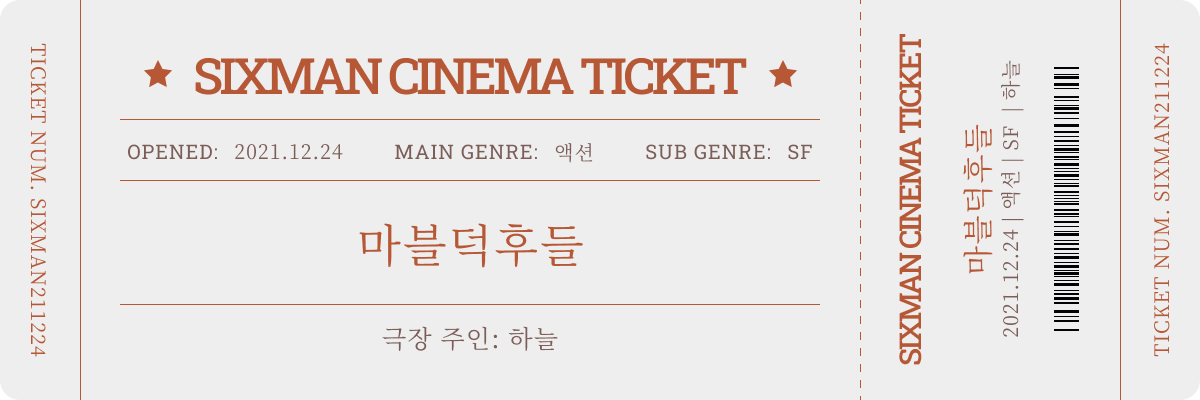
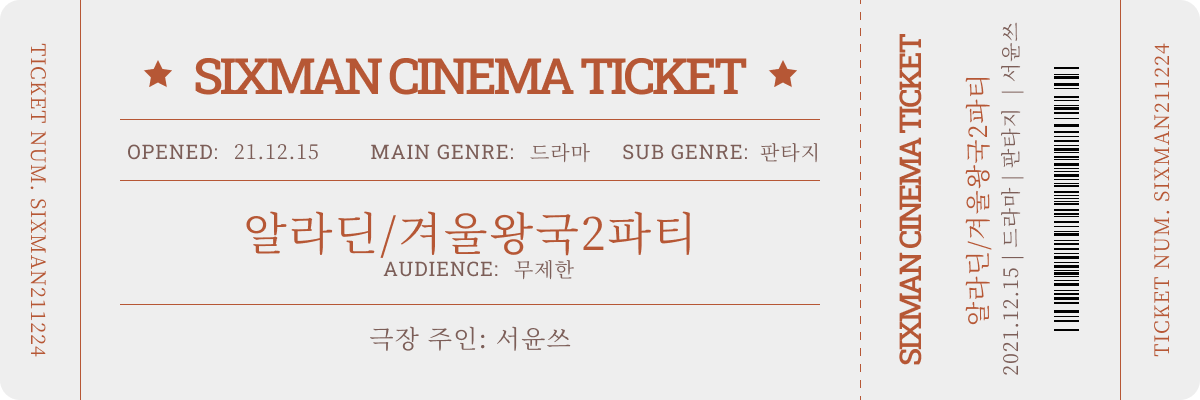
:tada: feat: 소극장 상세 페이지 완성 - detail 남음(링크, 장르 검색)

diff --git a/frontend/src/pages/Theater.jsx b/frontend/src/pages/Theater.jsx
@@ -1,38 +1,43 @@
 import styled from "styled-components";
 import { theme } from "styled-tools";
-import { Button, NoticeSection } from "../components";
-import { ticket01 } from "../assets/images";
-import { useNavigate } from "react-router-dom";
+import { Button, Notice } from "../components";
+import { useLocation, useNavigate } from "react-router-dom";
+import { ticket01, ticket02, ticket03, ticket04, ticket05, ticket06, ticket07 } from "../assets/images";
 
 export default function Theater() {
-  const navigate = useNavigate();
+  const TICKET_LIST = [
+    { id: 1, ticket: ticket01 },
+    { id: 2, ticket: ticket02 },
+    { id: 3, ticket: ticket03 },
+    { id: 4, ticket: ticket04 },
+    { id: 5, ticket: ticket05 },
+    { id: 6, ticket: ticket06 },
+    { id: 7, ticket: ticket07 },
+  ];
 
-  const theaterInfo = {
-    owner: "하늘",
-    linkPath: "https://velog.io/@soryeongk/ReactRouterDomV6",
-    intro: {
-      title: "마블 덕후들 소개",
-      context:
-        "마블을 사랑하는 사람들의 모임입니다.\n주 모임 시간은 주말과 평일 20~24시입니다.\n지역은 서울/경기/울산 등 다양합니다.",
-    },
-    notice: {
-      title: "극장 주인 하늘님의 공지사항",
-      context:
-        "마블 덕후들 환영합니다~\n이번 주 9일 17시~19시 비대면 번개 아이언맨3 정주행 모임 있습니다!자세한 내용은 위의 티켓을 클릭하여 오픈카톡링크로 들어와주세요",
-    },
-  };
+  const navigate = useNavigate();
+  const { state } = useLocation();
+  const theaterInfo = state.theaterInfo;
+  const theaterId = theaterInfo.id;
+  const ticket = TICKET_LIST[theaterId - 1].ticket;
+  const LINK_PATH = "https://kdt-gitlab.elice.io/003-part3-ottservice/team6/project-template";
+
+  const { title, notice } = theaterInfo;
 
   return (
     <Wrapper>
       <span>
-        식스맨 비대면 소극장 <Title>마블 덕후들</Title>입니다.
+        식스맨 비대면 소극장 <Title>{title}</Title>입니다.
         <br />
         아래 티켓을 누르면 오픈 카톡 링크로 이동합니다!
       </span>
-      <a href={theaterInfo.linkPath}>
-        <Image src={ticket01} alt="ticket image" />
+      <a href={LINK_PATH}>
+        <Image src={ticket} alt="ticket image" />
       </a>
-      <NoticeSection introData={theaterInfo.intro} noticeData={theaterInfo.notice} />
+      {/* <NoticeSection introData={theaterInfo.intro} noticeData={theaterInfo.notice} /> */}
+      <Notice title={title}>
+        <StNotice>{notice}</StNotice>
+      </Notice>
       <Button isMini={true} onClick={() => navigate(-1)}>
         소극장 더 둘러보기
       </Button>
@@ -67,7 +72,7 @@ const Image = styled.img`
   }
 `;
 
-const Title = styled.span`
+export const Title = styled.span`
   position: relative;
   color: ${theme("colors.mainPoint")};
   margin: 0 0.8em;
@@ -83,4 +88,16 @@ const Title = styled.span`
     content: '"';
     right: -0.5em;
   }
+`;
+
+const StNotice = styled.div`
+  margin: 1.5rem 0 5rem 0;
+  border: 0.1rem solid ${theme("colors.mainPoint")};
+  padding: 4rem;
+  width: 120rem;
+  height: 35.4rem;
+  color: ${theme("colors.mainWhite")};
+  white-space: pre-wrap;
+  ${theme("neons.boxNeonGold")}
+  ${theme("fonts.textP")}
 `;

diff --git a/frontend/src/components/common/Table.jsx b/frontend/src/components/common/Table.jsx
@@ -2,8 +2,6 @@ import { useNavigate } from "react-router-dom";
 import styled from "styled-components";
 import { theme } from "styled-tools";
 
-//
-
 export default function Table({ tHeadList, tBodyList }) {
   const navigate = useNavigate();
 
@@ -17,7 +15,9 @@ export default function Table({ tHeadList, tBodyList }) {
         </tr>
       </thead>
       {tBodyList.map((body) => (
-        <tbody key={`tbody-${body.id}`} onClick={() => navigate(`/theater/${body.id}`)}>
+        <tbody
+          key={`tbody-${body.id}`}
+          onClick={() => navigate(`/theater/${body.id}`, { state: { theaterInfo: body } })}>
           <tr>
             <td>{body.published_date}</td>
             <td>{body.title}</td>

diff --git a/frontend/src/assets/images/index.js b/frontend/src/assets/images/index.js
@@ -17,3 +17,9 @@ export { default as poster14 } from "./tempPosters/poster14.png";
 export { default as poster15 } from "./tempPosters/poster15.png";
 export { default as poster16 } from "./tempPosters/poster16.png";
 export { default as ticket01 } from "./ticket01.png";
+export { default as ticket02 } from "./ticket02.png";
+export { default as ticket03 } from "./ticket03.png";
+export { default as ticket04 } from "./ticket04.png";
+export { default as ticket05 } from "./ticket05.png";
+export { default as ticket06 } from "./ticket06.png";
+export { default as ticket07 } from "./ticket07.png";

diff --git a/frontend/src/components/theater/Notice.jsx b/frontend/src/components/theater/Notice.jsx
@@ -1,7 +1,11 @@
+import { Title } from "../../pages/Theater";
+
 export default function Notice({ title, children }) {
   return (
     <section>
-      <span>{title}</span>
+      <span>
+        소극장 <Title>{title}</Title>의 공지사항
+      </span>
       {children}
     </section>
   );
